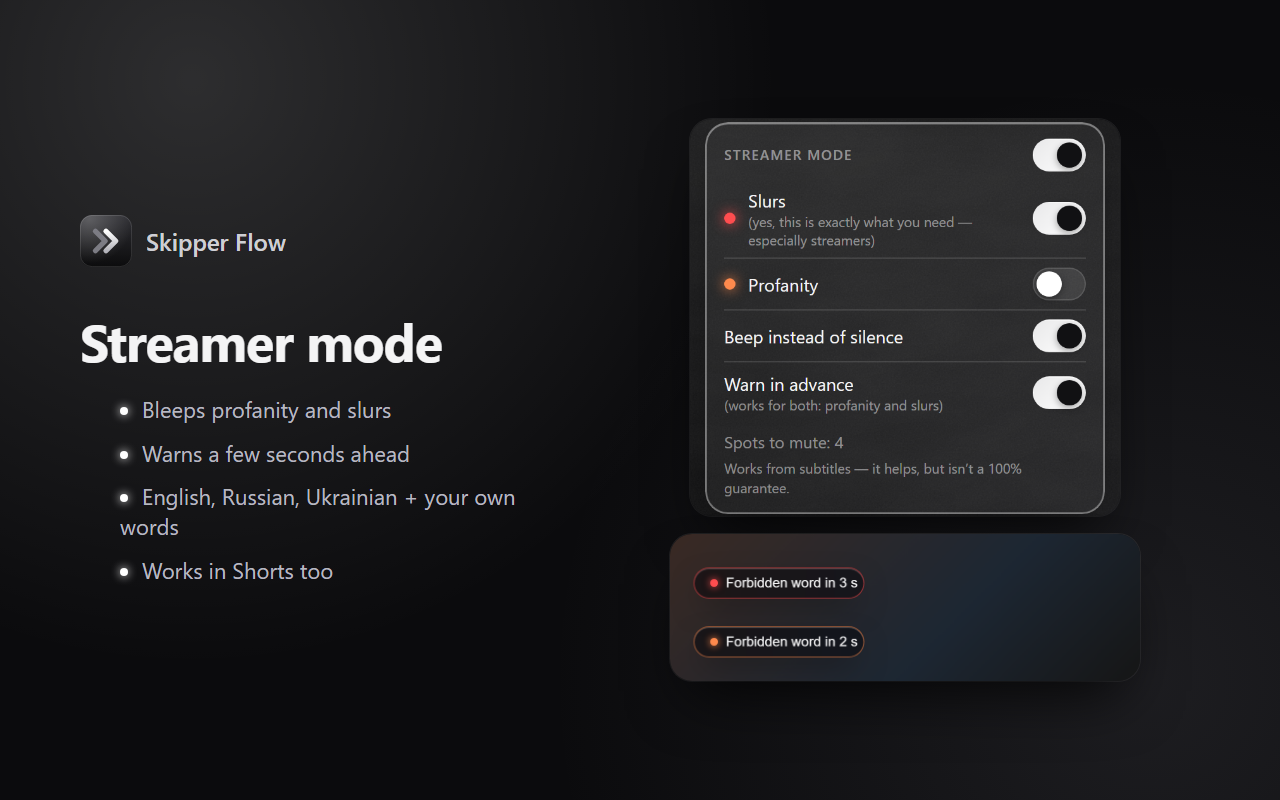
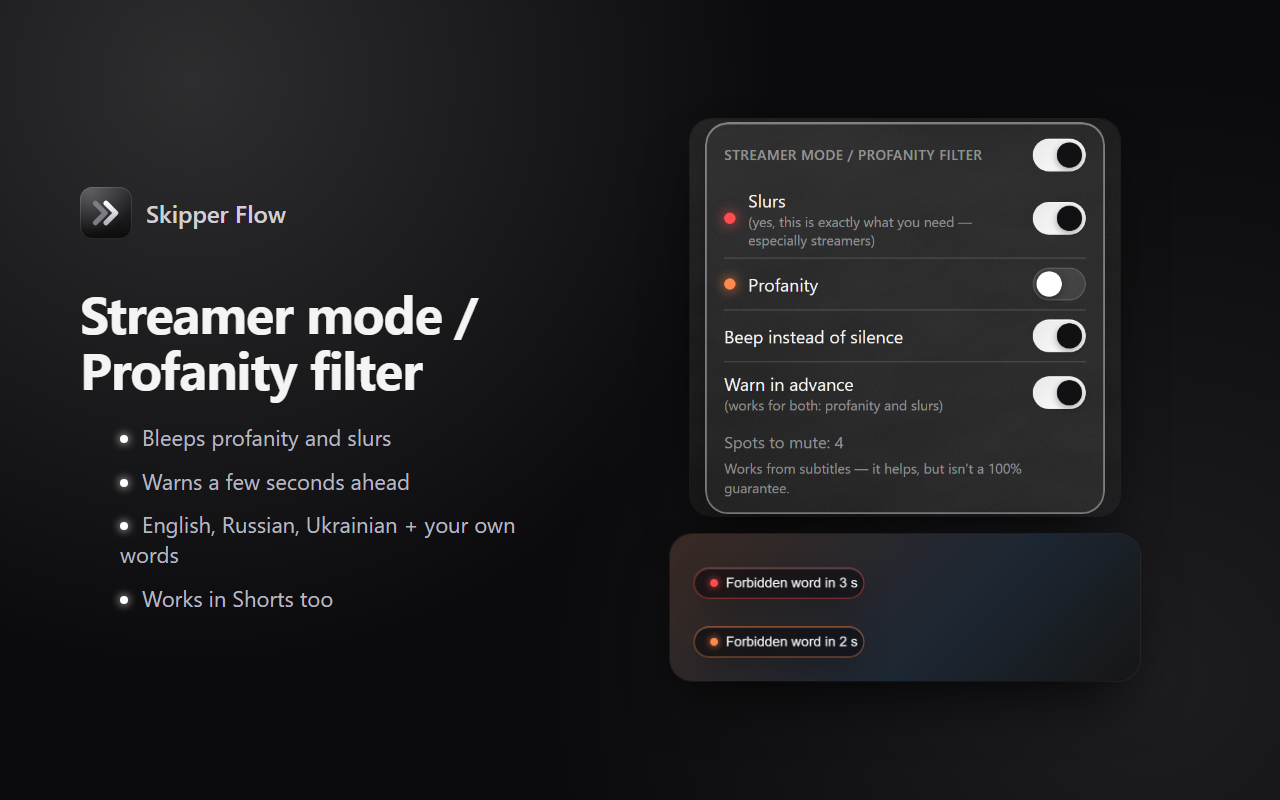
«Режим стримера / Фильтрация мата» и подсказки моделей Claude, GPT, Gemini
- название режима стримера дополнено «Фильтрация мата» (en/ru/uk),
  заголовок в popup помещается в одну строку на всех языках
- настройки: в списке моделей — Claude, GPT и Gemini через OpenRouter
  (ID сверены с openrouter.ai/models), подсказка объясняет, что всё доступно одним ключом
- обновлены скриншоты режима стримера, тексты магазина и README

Changed region(s): [[0.0625, 0.375, 0.4062, 0.7812], [0.0625, 0.2188, 0.2188, 0.3125], [0.5625, 0.1875, 0.7812, 0.2188]]

diff --git a/extension/options/options.html b/extension/options/options.html
@@ -115,10 +115,17 @@
         <div class="field">
           <label for="model" data-i18n="modelLabel"></label>
           <input type="text" id="model" list="model-list" placeholder="nvidia/nemotron-3-super-120b-a12b:free" />
+          <!-- Подсказки для поля «Модель». Через OpenRouter одним ключом доступны модели разных компаний.
+               ID сверены со списком openrouter.ai/models (октябрь 2026). label — что видно в выпадающем списке. -->
           <datalist id="model-list">
-            <option value="nvidia/nemotron-3-super-120b-a12b:free"></option>
-            <option value="nvidia/nemotron-3-super-120b-a12b"></option>
-            <option value="google/gemma-4-31b-it:free"></option>
+            <option value="nvidia/nemotron-3-super-120b-a12b:free" label="Nemotron 3 Super (free)"></option>
+            <option value="nvidia/nemotron-3-super-120b-a12b" label="Nemotron 3 Super"></option>
+            <option value="anthropic/claude-haiku-5.5" label="Claude Haiku 5.5"></option>
+            <option value="anthropic/claude-sonnet-5.5" label="Claude Sonnet 5.5"></option>
+            <option value="openai/gpt-6-luna-pro" label="GPT-6 Luna Pro"></option>
+            <option value="openai/gpt-6.1-sol" label="GPT-6.1 Sol"></option>
+            <option value="google/gemini-3.8-flash" label="Gemini 3.8 Flash"></option>
+            <option value="google/gemma-4-31b-it:free" label="Gemma 4 31B (free)"></option>
           </datalist>
           <p class="hint" data-i18n="modelHint"></p>
         </div>

diff --git a/extension/popup/popup.css b/extension/popup/popup.css
@@ -329,3 +329,8 @@ body.preload .slider,
 body.preload .slider::after {
   transition: none !important;
 }
+
+/* Длинное название «Режим стримера / Фильтрация мата» — чуть плотнее буквы, чтобы влезло в одну строку */
+.streamer .card-head h2 {
+  letter-spacing: 0.03em;
+}

diff --git a/README.ru.md b/README.ru.md
@@ -13,7 +13,7 @@
 - Сначала берёт разметку из открытой базы [SponsorBlock](https://sponsor.ajay.app/). Если её нет — фрагменты находит ИИ по субтитрам видео. Это закрывает русскоязычные и небольшие каналы, которые SponsorBlock размечает редко.
 - Цветные метки на шкале видео, уведомление с кнопками «Посмотреть рекламу» и «Это не реклама» (отзыв уходит на сервер).
 
-### 🎙 Режим стримера
+### 🎙 Режим стримера / Фильтрация мата
 - Запикивает или глушит оскорбления и мат — например, когда стример реагирует на чужие видео в эфире.
 - Предупреждает за несколько секунд до запрещённого слова.
 - Словари на русском, украинском и английском, учёт приставок (`а-хуительно`, `за-ебал`) и свои слова.

diff --git a/README.md b/README.md
@@ -13,7 +13,7 @@
 - First it checks the open [SponsorBlock](https://sponsor.ajay.app/) database. If there's nothing there, an AI finds the segments from the video's subtitles. This covers Russian-speaking and smaller channels that SponsorBlock rarely marks up.
 - Colored marks on the video timeline, plus a notification with "Watch the ad" and "Not an ad" buttons (feedback goes to the server).
 
-### 🎙 Streamer mode
+### 🎙 Streamer mode / Profanity filter
 - Bleeps or mutes slurs and profanity — for example, when a streamer reacts to other people's videos live.
 - Warns a few seconds before a forbidden word.
 - Dictionaries for English, Russian and Ukrainian, prefix-aware matching for Slavic profanity, plus your own words.
